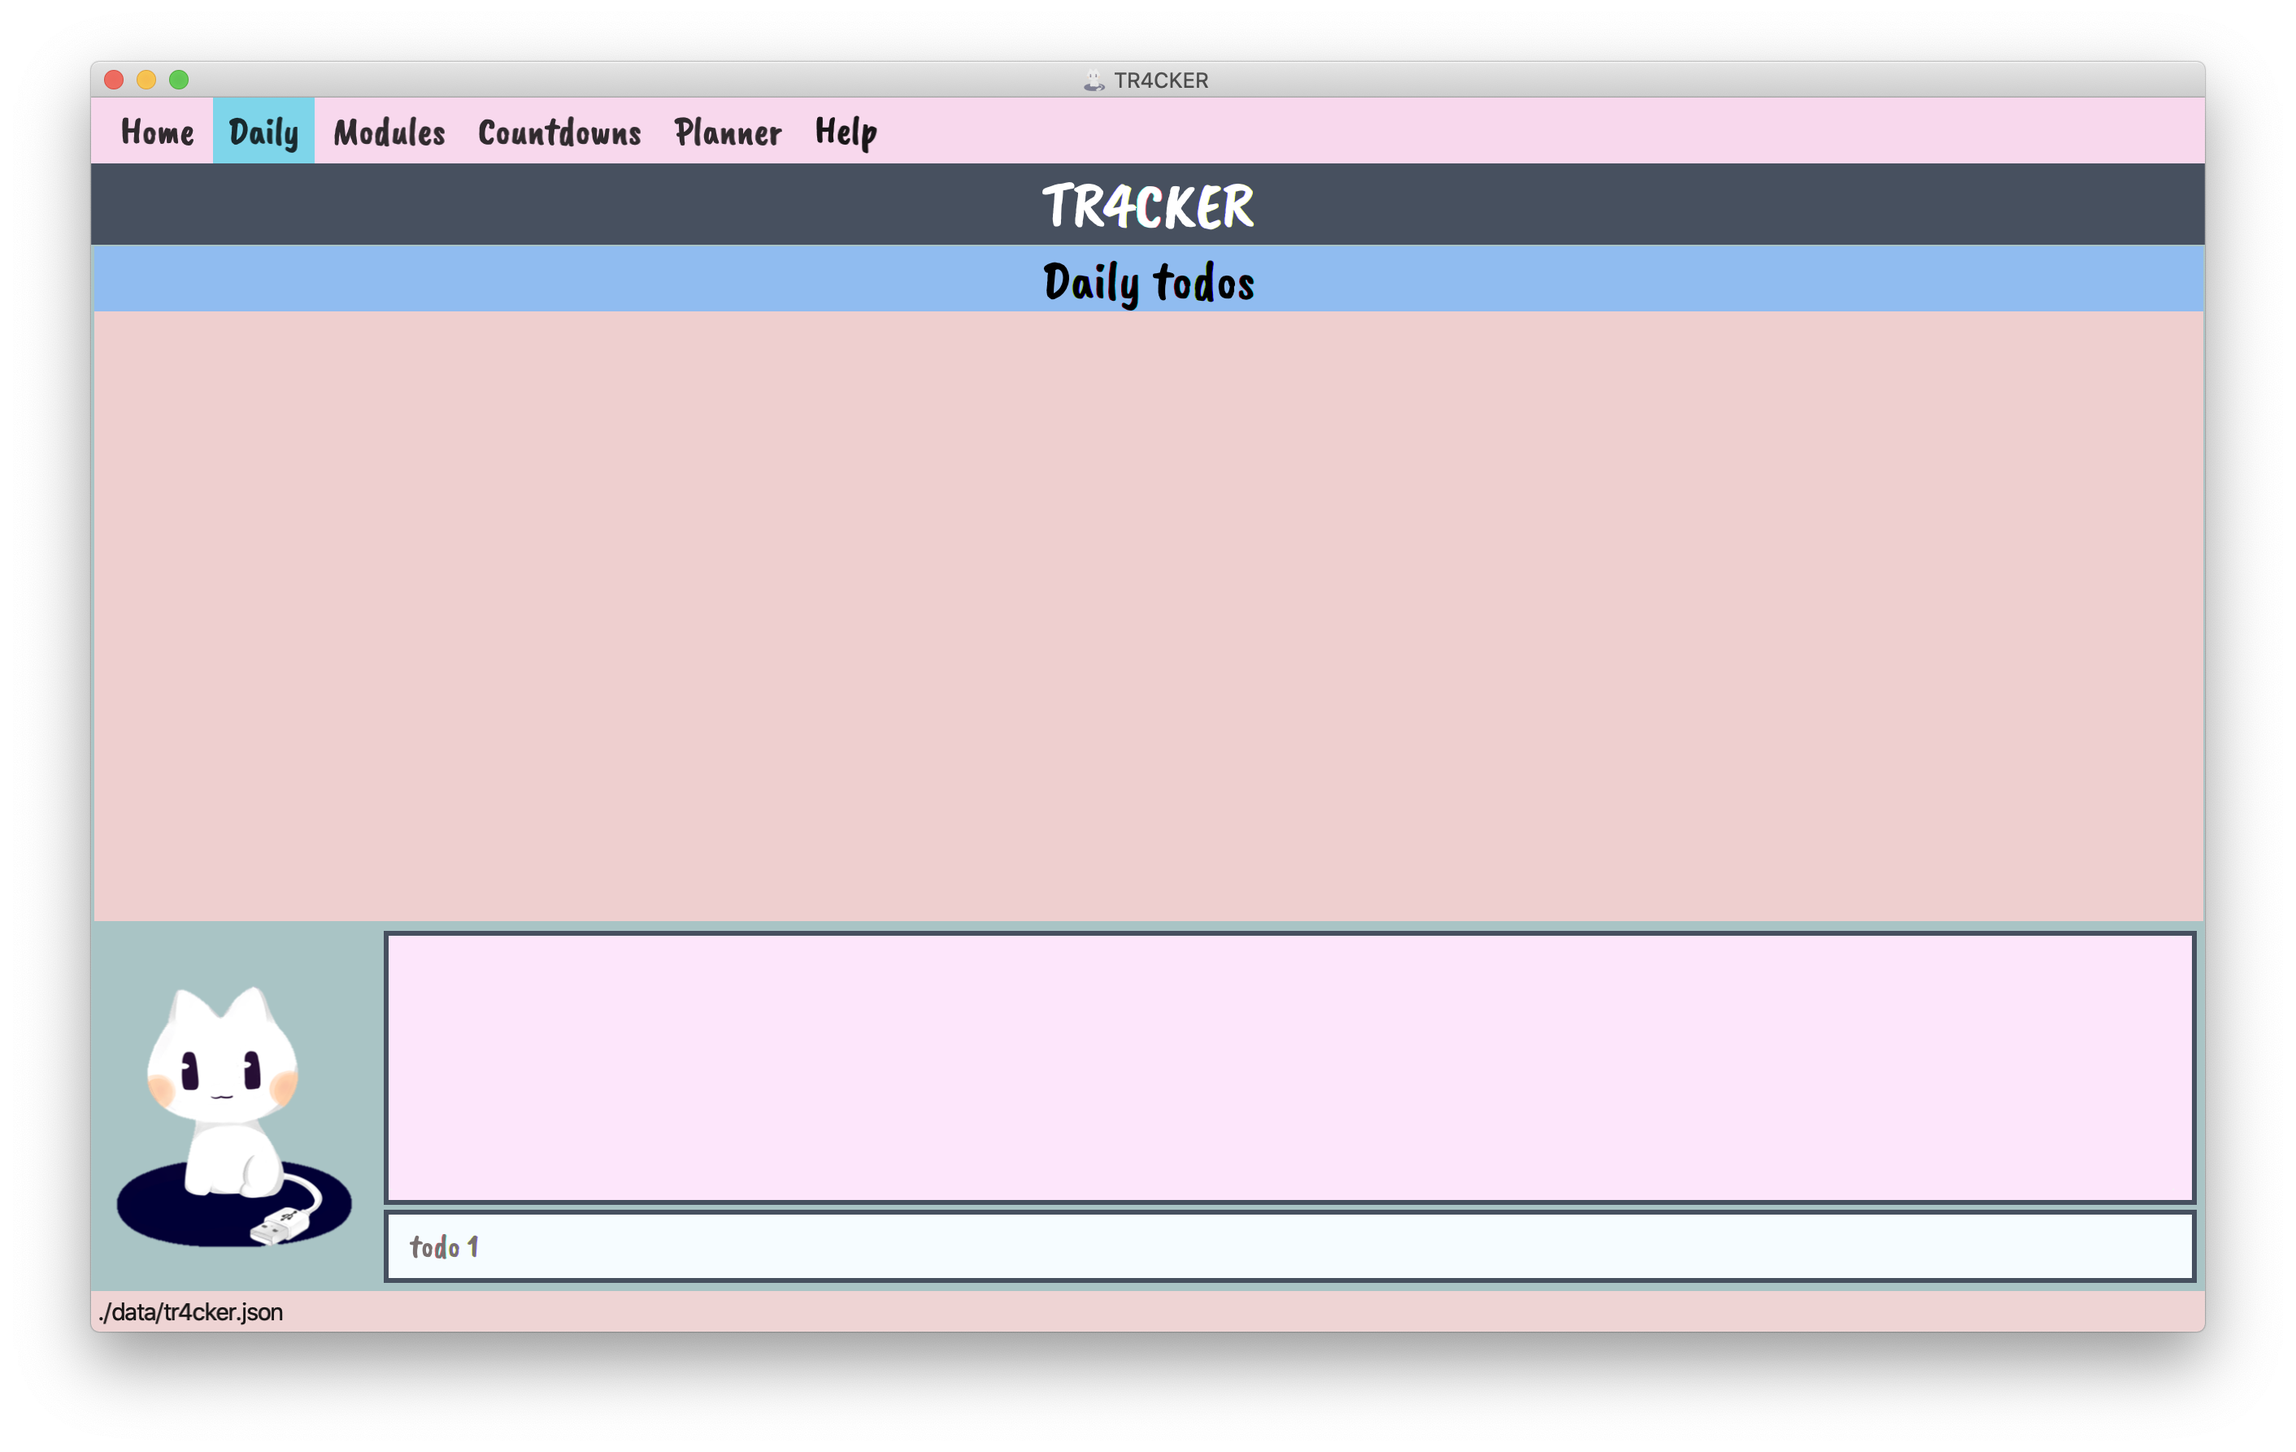
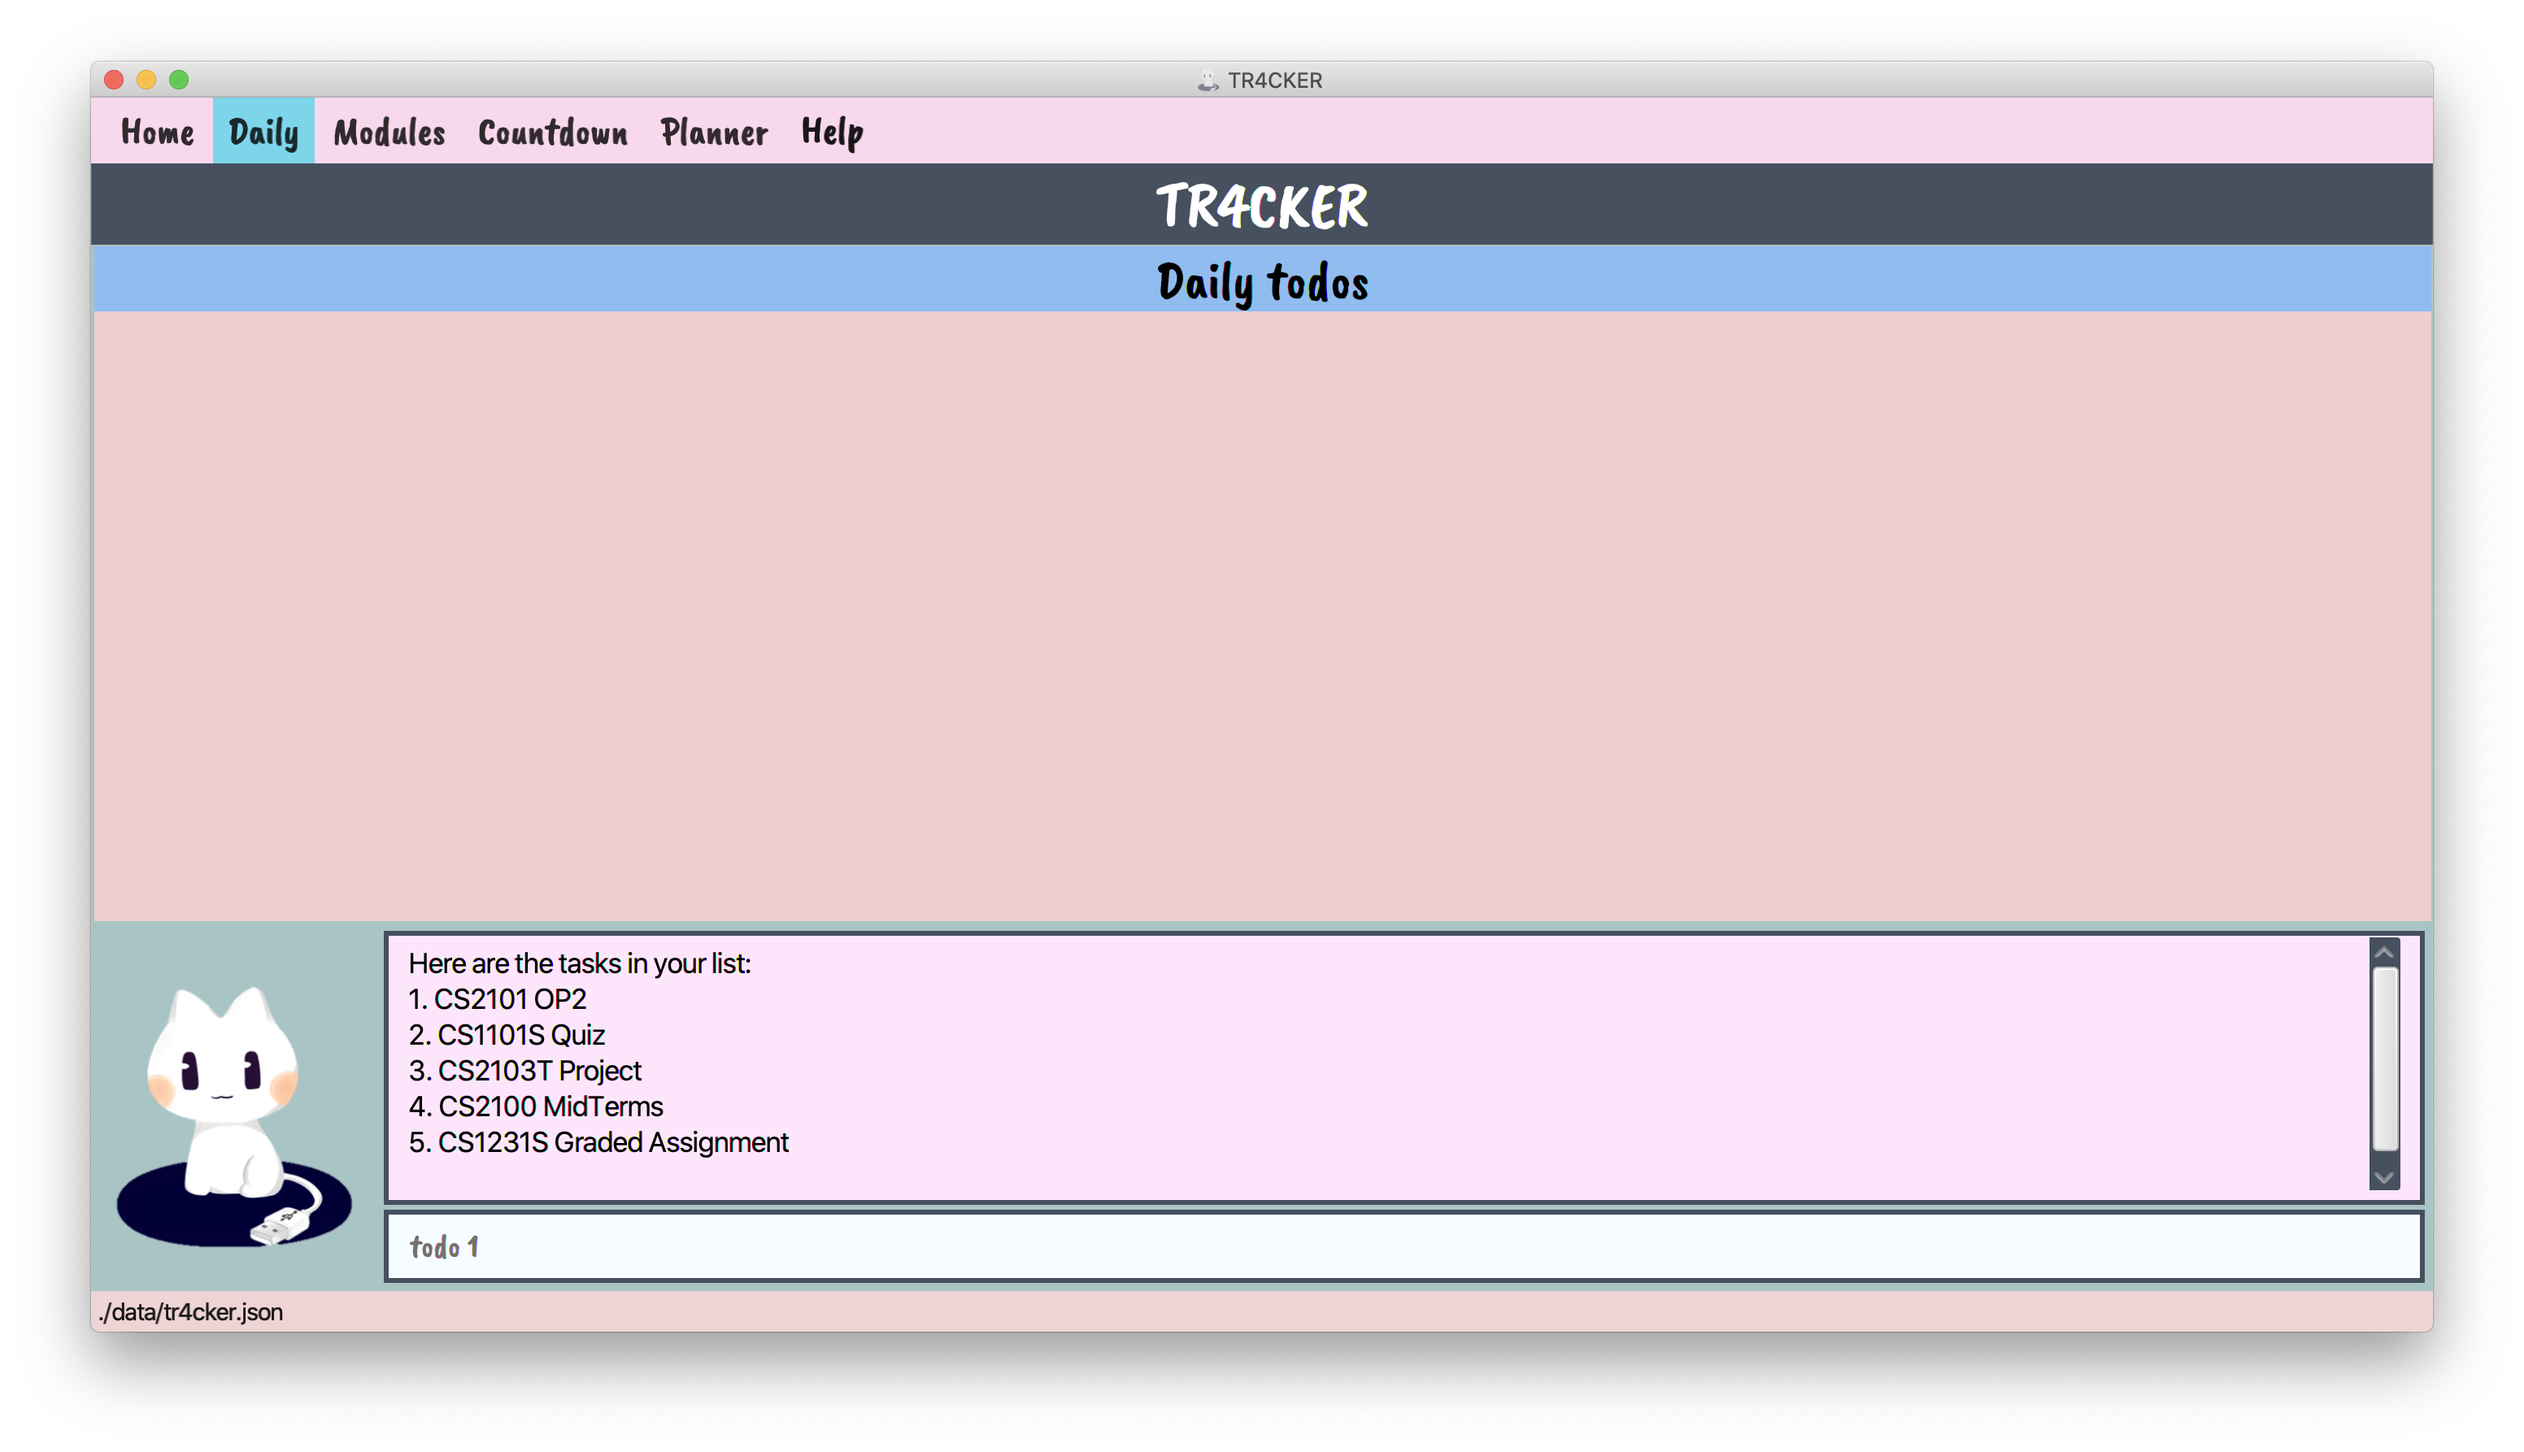
change figures and update glossary

diff --git a/docs/UserGuide.md b/docs/UserGuide.md
@@ -394,7 +394,7 @@ Format: `todo INDEX`
 
 Examples:
 1. You enter `list` and press enter to see a list of pending tasks .
-![list of pending]()
+![list of pending](images/listCommand.png)
 2. Enter `todo 1` to add the first task into daily todo list.
 3. Press enter and the task has been added to daily todo list
 ![todo before](images/dailyTab_todo1Before.png)
@@ -422,10 +422,10 @@ Format: `daily del/INDEX`
 Examples:
 1. You enter `daily del/1` to delete the first task in daily todo list.
 2. Press enter and the first todo task is deleted
-![daily delete before]()
+![daily delete before](images/dailyTab_del1Before.png)
 Figure 10: Daily tab before executing `daily del/1`
 
-![daily delete after]()
+![daily delete after](images/dailyTab_del1After.png)
 Figure 11: Daily tab after executing `daily del/1`
 
 * Alternatively, when you delete a pending task using the `delete` command, the corresponding daily todo task will be 
@@ -870,7 +870,12 @@ There is no need to save manually.
 --------------------------------------------------------------------------------------------------------------------
 # 4. Glossary
 
-* 
+* **CLI**: Command-Line Interface, a method of interacting with computer programs by typing lines of text.
+* **Task**: An item to be completed by a certain deadline, with specified task names, deadline, task description, tags(optional) and module code.
+* **Todo**: An item planned to be completed in a day.
+* **Event**: An item showing number of days before the occurrence of an event.
+* **Module**: A subject taken by NUS students with specific module code and module name.
+* **Planner**: A display of tasks due on certain days in a calendar.
 --------------------------------------------------------------------------------------------------------------------
 
 # 5. FAQ
